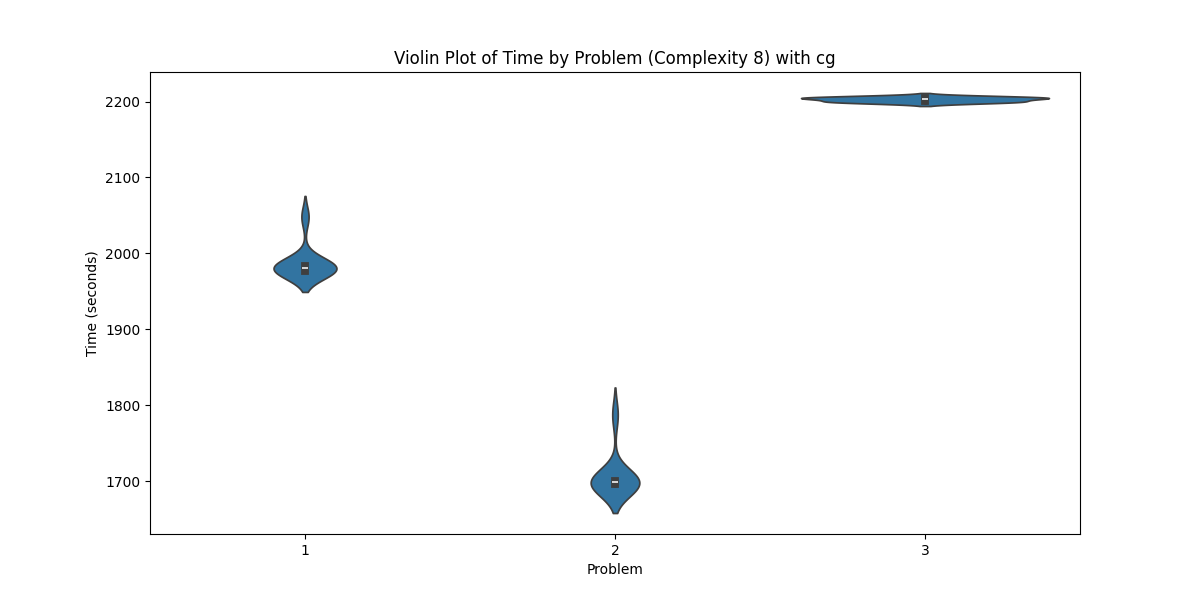
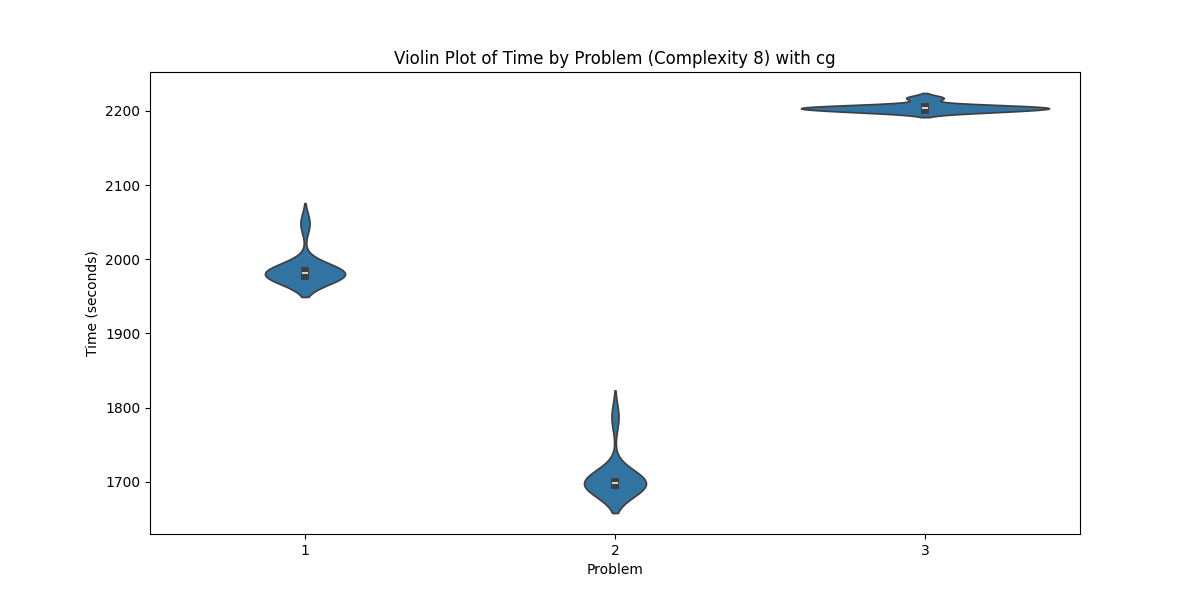
more plots

diff --git a/benchmarking_data/violin_one_problem_all_complexity/violin_all_compl.py b/benchmarking_data/violin_one_problem_all_complexity/violin_all_compl.py
@@ -23,17 +23,22 @@ for path in file_paths:
     # Extract the method name from the file path
     method = path.split('_')[-1].split('.')[0]
 
-    # Plotting the violin plot
-    plt.figure(figsize=(12, 6))
-    sns.violinplot(x='Dim', y='Time', data=df)
+    # Iterate over the problems
+    for problem in range(1,3):
+        # Filter the data to only include rows with the current problem
+        df_filtered = df[df['Problem'] == problem]
 
-    # Customize the plot
-    plt.xscale('log')
-    plt.yscale('log')
-    plt.title(f'Violin Plot of Time by Dimension with {method} (Log-Log Scale)')
-    plt.xlabel('Dimension (log scale)')
-    plt.ylabel('Time (seconds, log scale)')
+        # Plotting the violin plot
+        plt.figure(figsize=(12, 6))
+        sns.violinplot(x='Dim', y='Time', data=df_filtered)
 
-    # Save plot
-    plt.savefig(f'violin_plot_{method}_loglog.png')
-    plt.close()
+        # Customize the plot
+        plt.title(f'Violin Plot of Time by Dimension (Problem {problem}) with {method}')
+        plt.xlabel('Dimension')
+        plt.ylabel('Time (seconds)')
+
+        plt.yscale('linear')
+
+        # Save plot
+        plt.savefig(f'violin_plot_{method}_problem_{problem}.png')
+        plt.close()

diff --git a/benchmarking_data/violin_problems/violin.py b/benchmarking_data/violin_problems/violin.py
@@ -30,11 +30,11 @@ for path in file_paths:
 
         # Plotting the violin plot
         plt.figure(figsize=(12, 6))
-        sns.violinplot(x='Dim', y='Time', data=df_filtered)
+        sns.violinplot(x='Problem', y='Time', data=df_filtered)
 
         # Customize the plot
-        plt.title(f'Violin Plot of Time by Dimension (Complexity {complexity}) with {method}')
-        plt.xlabel('Dimension')
+        plt.title(f'Violin Plot of Time by Problem (Complexity {complexity}) with {method}')
+        plt.xlabel('Problem')
         plt.ylabel('Time (seconds)')
 
         # Save plot
